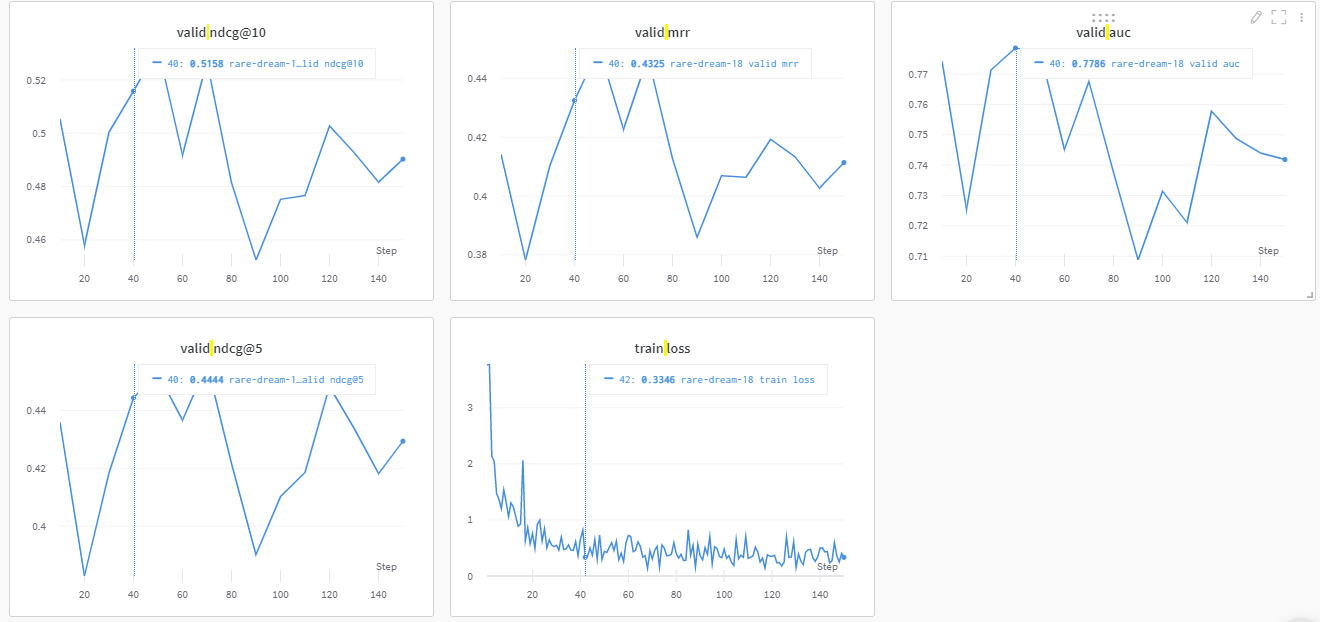
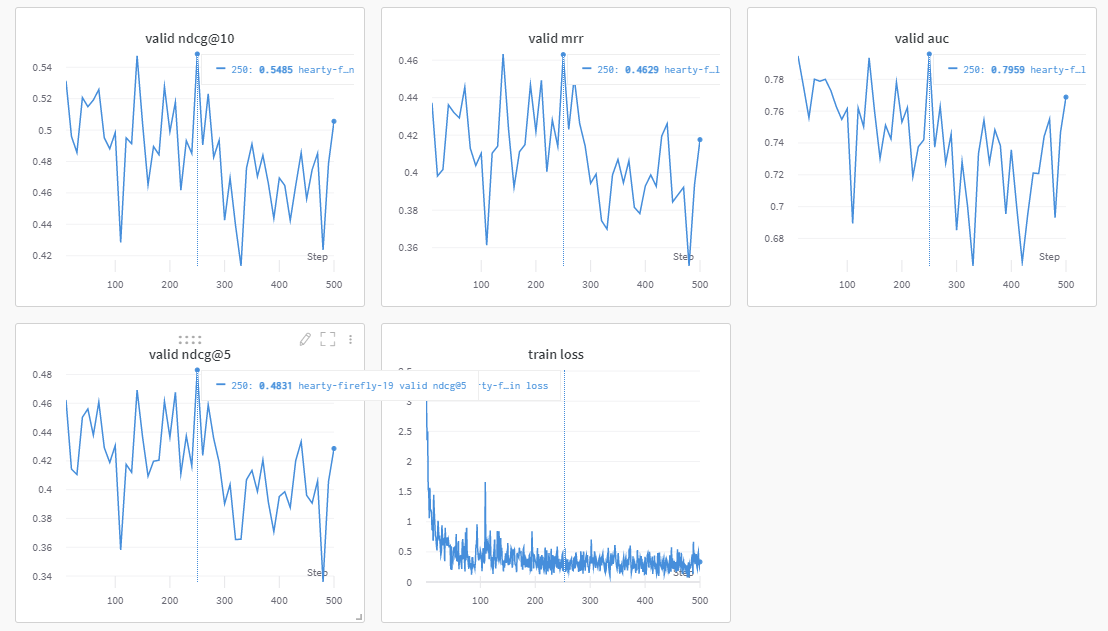
change adressa run step to 500

diff --git a/README.md b/README.md
@@ -50,7 +50,7 @@ python main.py --data mind
 python main.py --data mind --mode predict
 
 # train on adressa
-python main.py --data adressa --max_train_steps 150 --validation_step 10 --bert_type NbAiLab/nb-bert-base
+python main.py --data adressa --max_train_steps 500 --validation_step 10 --bert_type NbAiLab/nb-bert-base
 # test on adressa
 python main.py --data adressa --mode test --bert_type NbAiLab/nb-bert-base
 ```
@@ -70,7 +70,7 @@ Wandb result on Adressa dataset.
 ![](./.figure/adressa-result.png)
 Test result is
 ```
-test auc: 0.7796, mrr: 0.4332, ndcg5: 0.4458, ndcg10: 0.5167
+test auc: 0.7980, mrr: 0.4637, ndcg5: 0.4852, ndcg10: 0.5497
 ```
 
 ## Citing
